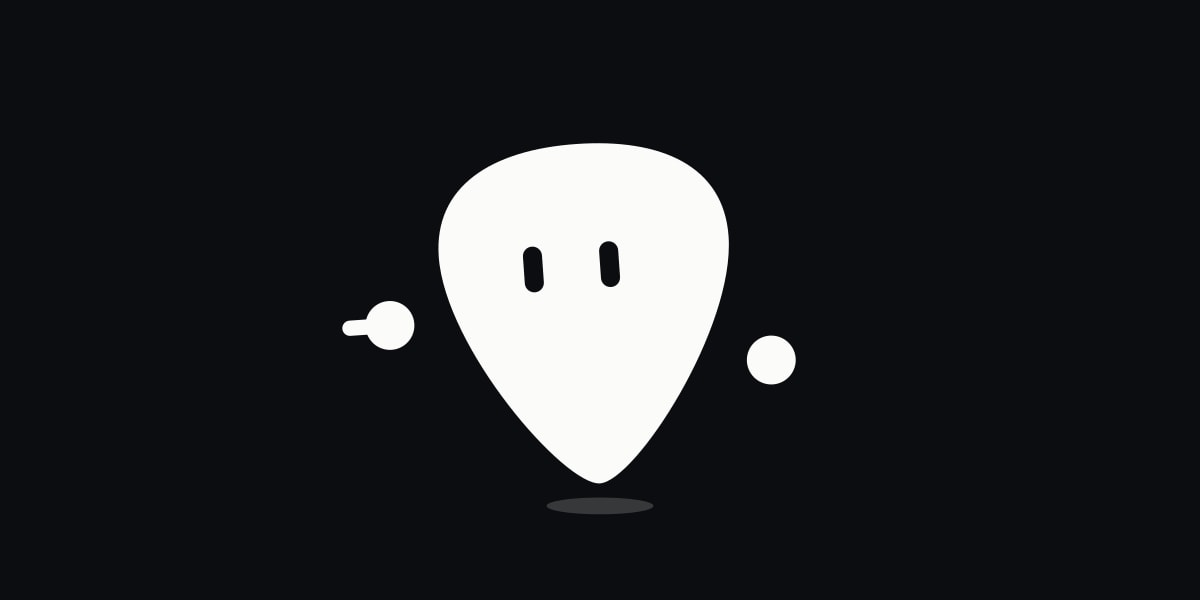
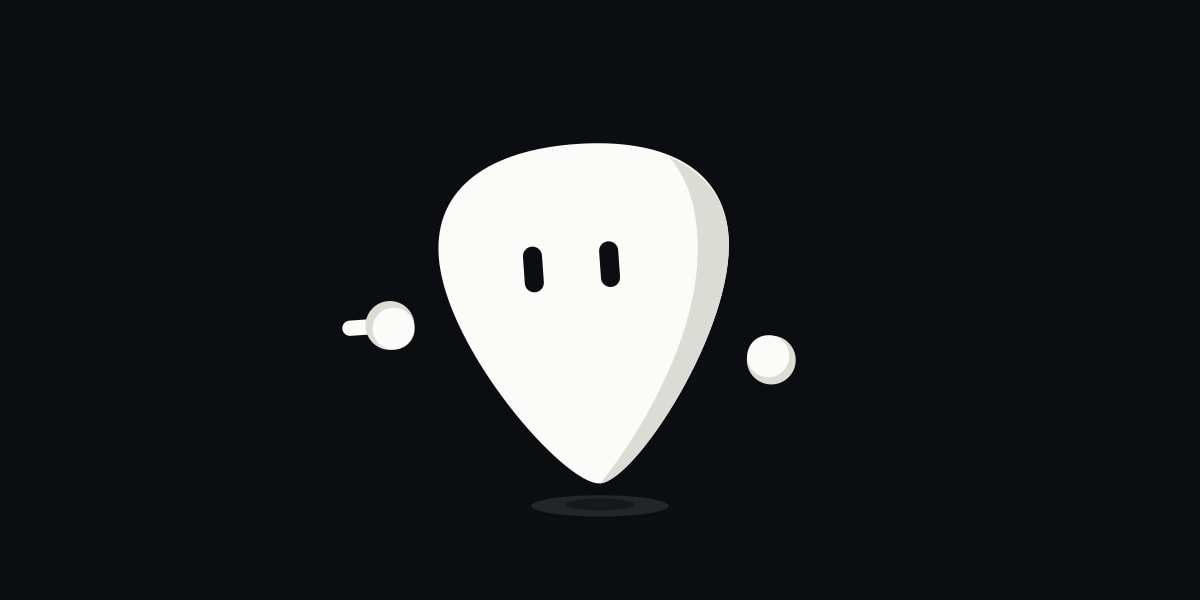
Give Kostek a shade crescent, shaded mitts and a two-layer ground shadow

Changed region(s): [[0.4625, 0.27, 0.6167, 0.87], [0.6167, 0.57, 0.6783, 0.66], [0.3083, 0.48, 0.3392, 0.54]]

diff --git a/src/components/Mascot/Kostek.tsx b/src/components/Mascot/Kostek.tsx
@@ -62,6 +62,14 @@ type LookAt = "left" | "right" | "up" | "down";
  * CSS variable so the light theme turns it dark (see globals.css).
  */
 const FG = "var(--mascot-fg, #FBFBFA)";
+/**
+ * One shade step of the same colour, for volume: a crescent along the pick's
+ * right and lower edge and the underside of the mitts. Still flat — no
+ * gradients — just the way a printed sticker gets a second ink.
+ */
+const SHADE = "var(--mascot-shade, #DCDCD6)";
+/** The crescent of shade, clipped to the body. */
+const SHADE_PATH = "M84 31 C95 37 98.1 45 98.1 52.9 C98.1 77 69.3 115.1 60 115.1 C67 108 85 85 89 62 C91 50 90 39 84 31 Z";
 const C = {
   ring: "#22D3EE",
 };
@@ -178,12 +186,16 @@ const HandShapes = ({ shape }: { shape: HandShape }) => (
     {shape === "horns" ? (
       // Rock on: a rounded fist with two fingers up.
       <>
-        <rect x={-7} y={-5} width={14} height={11.5} rx={4.6} fill={FG} />
+        <rect x={-7} y={-5} width={14} height={11.5} rx={4.6} fill={SHADE} />
+        <rect x={-7} y={-5} width={13} height={10.5} rx={4.4} fill={FG} />
         <rect x={-7} y={-15.5} width={4} height={13} rx={2} fill={FG} />
         <rect x={3} y={-15.5} width={4} height={13} rx={2} fill={FG} />
       </>
     ) : (
-      <circle cx={0} cy={0} r={shape === "fist" ? HAND_R - 0.4 : HAND_R} fill={FG} />
+      <>
+        <circle cx={0} cy={0} r={shape === "fist" ? HAND_R - 0.4 : HAND_R} fill={SHADE} />
+        <circle cx={-0.9} cy={-0.9} r={(shape === "fist" ? HAND_R - 0.4 : HAND_R) - 0.9} fill={FG} />
+      </>
     )}
   </>
 );
@@ -764,17 +776,10 @@ export const Kostek = ({
       className={cn("h-32 w-auto", className)}
       aria-hidden
       onHoverStart={onHover}>
-      <motion.ellipse
-        cx='60'
-        cy='121'
-        rx='14'
-        ry='2.2'
-        fill={FG}
-        opacity={0.18}
-        style={{ transformBox: "fill-box", transformOrigin: "50% 50%" }}
-        initial={false}
-        animate={{ scaleX: pose.body.scaleX }}
-      />
+      <motion.g style={{ transformBox: "fill-box", transformOrigin: "50% 50%" }} initial={false} animate={{ scaleX: pose.body.scaleX }}>
+        <ellipse cx='60' cy='121' rx='18' ry='2.8' fill={FG} opacity={0.1} />
+        <ellipse cx='60' cy='120.6' rx='9' ry='1.6' fill='#000' opacity={0.35} />
+      </motion.g>
 
       {/* Sound rings, the one accent colour: a steady pulse while listening
           (the input sets how bright it is), single bursts on reactions. */}
@@ -841,7 +846,13 @@ export const Kostek = ({
                   </motion.g>
                 </motion.g>
               </mask>
-              <path d={BODY} fill={FG} mask={`url(#${maskId})`} />
+              <clipPath id={`${maskId}-body`}>
+                <path d={BODY} />
+              </clipPath>
+              <g mask={`url(#${maskId})`}>
+                <path d={BODY} fill={FG} />
+                <path d={SHADE_PATH} fill={SHADE} clipPath={`url(#${maskId}-body)`} />
+              </g>
             </motion.g>
             {hands(false)}
           </motion.g>
@@ -864,12 +875,14 @@ export const KostekStill = ({
   lookAt,
   eyesClosed = false,
   fg = "#FBFBFA",
+  shade = "#DCDCD6",
   bg = "#0B0D10",
 }: {
   mood?: KostekMood;
   lookAt?: LookAt;
   eyesClosed?: boolean;
   fg?: string;
+  shade?: string;
   bg?: string;
 }) => {
   let pose = poseFor(mood, lookAt);
@@ -907,17 +920,22 @@ export const KostekStill = ({
     );
   };
   const hand = (h: HandPose) => (
-    <g transform={`translate(${h.x} ${h.y}) rotate(${h.r})`} style={{ ["--mascot-fg" as string]: fg }}>
+    <g transform={`translate(${h.x} ${h.y}) rotate(${h.r})`} style={{ ["--mascot-fg" as string]: fg, ["--mascot-shade" as string]: shade }}>
       <HandShapes shape={h.shape ?? "mitt"} />
     </g>
   );
   return (
     <svg xmlns='http://www.w3.org/2000/svg' viewBox='4 16 112 110' overflow='visible' style={{ ["--mascot-fg" as string]: fg }}>
-      <ellipse cx='60' cy='121' rx={14 * b.scaleX} ry='2.2' fill={fg} opacity={0.18} />
+      <clipPath id='kostek-still-body'>
+        <path d={BODY} />
+      </clipPath>
+      <ellipse cx='60' cy='121' rx={18 * b.scaleX} ry='2.8' fill={fg} opacity={0.1} />
+      <ellipse cx='60' cy='120.6' rx={9 * b.scaleX} ry='1.6' fill='#000' opacity={0.35} />
       <g transform={bodyT}>
         {pose.l.behind && hand(pose.l)}
         {pose.r.behind && hand(pose.r)}
         <path d={BODY} fill={fg} />
+        <path d={SHADE_PATH} fill={shade} clipPath='url(#kostek-still-body)' />
         <g transform={`translate(${pose.look.x} ${pose.look.y})`}>
           {eye(EYE_L, -1)}
           {eye(EYE_R, 1)}
@@ -1034,7 +1052,13 @@ export const KostekFace = ({
           </>
         )}
       </mask>
-      <path d={BODY} fill={FG} mask={`url(#${id})`} opacity={active ? 1 : 0.45} />
+      <clipPath id={`${id}-body`}>
+        <path d={BODY} />
+      </clipPath>
+      <g mask={`url(#${id})`} opacity={active ? 1 : 0.45}>
+        <path d={BODY} fill={FG} />
+        <path d={SHADE_PATH} fill={SHADE} clipPath={`url(#${id}-body)`} />
+      </g>
     </svg>
   );
 };

diff --git a/src/styles/globals.css b/src/styles/globals.css
@@ -434,6 +434,7 @@ button,
 html.theme-light:has([data-app-shell]) {
   /* Kostek, the mascot: off-white on dark, ink on light (its eyes are cut-outs). */
   --mascot-fg: #18181b;
+  --mascot-shade: #0b0b0d;
   color-scheme: light;
   color: #18181b;
   background-color: #eaeaed;
